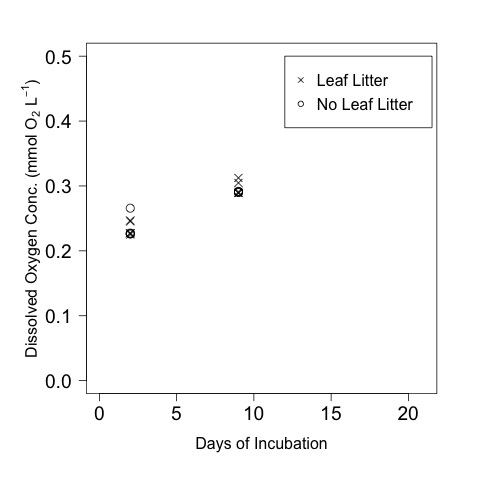
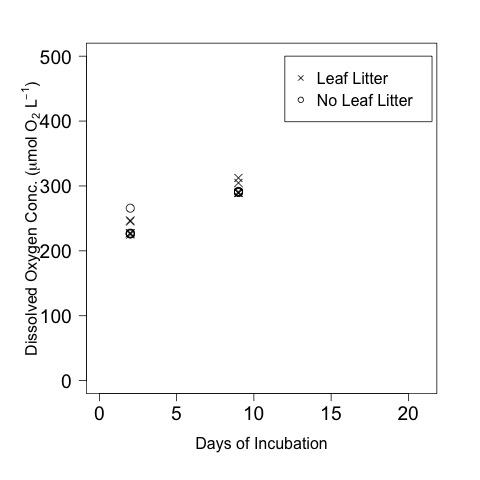
analyzed DO from leached litter SOD exp

diff --git a/lab_notebook/analysis/leached_litter_Spring_SOD_Analysis.md b/lab_notebook/analysis/leached_litter_Spring_SOD_Analysis.md
@@ -8,6 +8,8 @@
 
 * 16 Aug 2016 - KF - added calculations of DO concentration 
 
+* 17 Aug 2016 - KF - converted DO to umol/L to match litter exp results
+
 ## Purpose
 
 This code is to analyze the effect of the leached litter addition treatments on SOD. 
@@ -42,47 +44,52 @@ These data still need to be entered - KF - 16 Aug 2016
     #loi <- read.table("./data/
 
 ## Analysis
+
+#### Convert DO from mmol/L to umol/L
+
+    DO.T0.umol <- sod$DO.T0 * 1000
+
 ### Analyze DO concentrations
 
-    tapply(sod$DO.T0, sod$days.elap, summary) 
-    tapply(sod$DO.T0, sod$days.elap, sd)
+    tapply(DO.T0.umol, sod$days.elap, summary) 
+    tapply(DO.T0.umol, sod$days.elap, sd)
 
 ~~~~
-Dissolved oxygen in the bottles (mmol /L) by days elapsed
+Dissolved oxygen in the bottles (umol /L) by days elapsed
 
 $`2`
    Min. 1st Qu.  Median    Mean 3rd Qu.    Max. SD
- 0.2253  0.2264  0.2271  0.2344  0.2410  0.2657 0.013698528
+  225.3   226.4   227.1   234.4   241.0   265.7 13.698528 
 
 $`9`
    Min. 1st Qu.  Median    Mean 3rd Qu.    Max. SD
- 0.2890  0.2900  0.2908  0.2940  0.2915  0.3124 0.007928689
+  289.0   290.0   290.8   294.0   291.5   312.4 7.928689
 
 ~~~~
+
+    tapply(DO.T0.umol, sod$treatment, summary) 
+    tapply(DO.T0.umol, sod$treatment, sd)
+
+~~~~
+Dissolved oxygen in the bottles (umol/L) by treatment
+
+$LS
+   Min. 1st Qu.  Median    Mean 3rd Qu.    Max. SD
+  225.3   231.9   267.8   265.8   290.4   312.4 34.65816
+
+$S
+   Min. 1st Qu.  Median    Mean 3rd Qu.    Max. SD
+  226.1   226.7   277.8   262.6   290.8   291.7 31.93086
+
+~~~~~
  
-    anova(lm(DO.T0 ~ treatment * days.elap, data = sod))
-
-~~~~
-ANOVA on the DO conc of the bottles by time and treatment
-
-Analysis of Variance Table
-
-Response: DO.T0
-                    Df    Sum Sq   Mean Sq  F value    Pr(>F)    
-treatment            1 0.0000522 0.0000522   0.3883    0.5420    
-days.elap            1 0.0177844 0.0177844 132.3840 3.775e-09 ***
-treatment:days.elap  1 0.0000530 0.0000530   0.3947    0.5387    
-Residuals           16 0.0021494 0.0001343                       
----
- 
-~~~~
  
 #### Plot of the DO concentration of the bottles by time and treatment
     
     par(las = 1, mar = c(6, 6, 3, 3))
-    plot(DO.T0 ~ days.elap, data = sod, subset = treatment == "LS", ylim = c(0, 0.5), xlim = c(0, 21), xlab = "Days of Incubation", ylab = expression(paste("Dissolved Oxygen Conc. (mmol ", O[2], " L"^{-1}, ")")), pch = 4, cex.axis = 1.2, cex.lab = 1, cex = 1.5)
-    points(DO.T0 ~ days.elap, data = sod, subset = treatment == "S", pch = 1, cex = 1.5)
-    legend(12, 0.5, c("Leaf Litter", "No Leaf Litter"), pch = c(4, 1), cex = 1)
+    plot(DO.T0.umol ~ days.elap, data = sod, subset = treatment == "LS", ylim = c(0, 500), xlim = c(0, 21), xlab = "Days of Incubation", ylab = expression(paste("Dissolved Oxygen Conc. (", mu, "mol ",O[2], " L"^{-1}, ")")), pch = 4, cex.axis = 1.2, cex.lab = 1, cex = 1.5)
+    points(DO.T0.umol ~ days.elap, data = sod, subset = treatment == "S", pch = 1, cex = 1.5)
+    legend(12, 500, c("Leaf Litter", "No Leaf Litter"), pch = c(4, 1), cex = 1)
     dev.copy(jpeg, "./output/plots/leached_litter_DO_by_days.jpg")
     dev.off()
 
@@ -90,7 +97,11 @@ Residuals           16 0.0021494 0.0001343
 
 Dissolved Oxygen by days elapsed for bottles with and without leaf litter
 
-### Plot Effect of Treatment on Area Norm SOD    
+
+### Area Normalized SOD
+
+    
+#### Plot Effect of Treatment on Area Norm SOD    
     par(las = 1, mar = c(6, 6, 3, 3))
     plot(SOD ~ days.elap, data = sod, subset = treatment == "LS", ylim = c(0, 2.5), xlim = c(0, 21), xlab = "Days of Incubation", ylab = expression(paste("SOD (mmol ", O[2], " m"^{-2}, " h"^{-1}, ")")), pch = 4, cex.axis = 1.2, cex.lab = 1.5, cex = 1.5)
     points(SOD ~ days.elap, data = sod, subset = treatment == "S", pch = 1, cex = 1.5)
